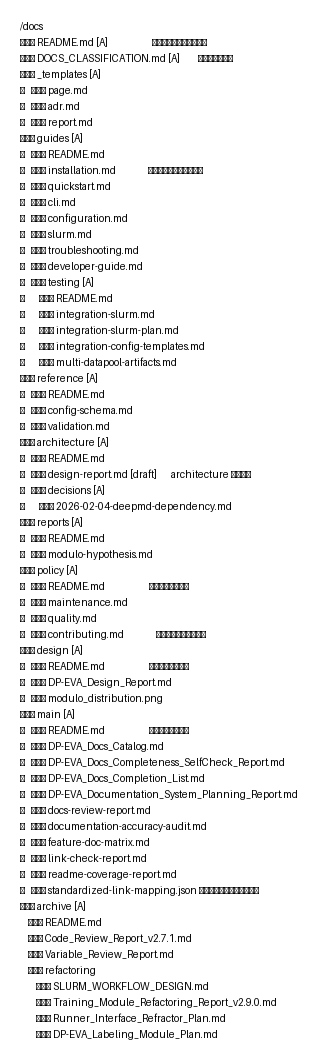
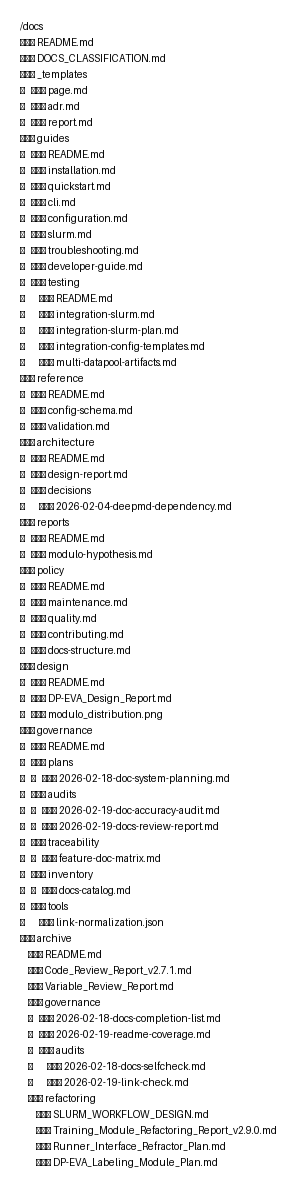
docs: 重构文档治理结构并归档历史报告
- 新增 `/docs/governance/` 目录，用于集中存放文档治理交付物，包括规划、审计、追踪矩阵和工具配置
- 将原 `/docs/main/` 下的治理类文档迁移至对应子目录，并更新 `/docs/README.md` 中的目录说明
- 将历史报告文件（如链接检测、文档补全清单、自检报告等）归档至 `/docs/archive/governance/` 目录
- 更新文档结构规范（`/docs/policy/docs-structure.md`）以反映新的治理目录布局
- 统一所有文档链接为根相对路径，确保可移植性和渲染一致性

Changed region(s): [[0.0606, 0.0, 0.9394, 0.9925], [0.4545, 0.1551, 0.6364, 0.1861]]

diff --git a/docs/governance/inventory/docs-catalog.md b/docs/governance/inventory/docs-catalog.md
@@ -27,7 +27,7 @@
 |---|---|---|---|---|---|---|
 | [config-schema.md](/docs/reference/config-schema.md) | Reference | Developers | Medium | active | config\|pydantic\|schema | Workflow 配置字段字典（通用字段、Train/Infer/Feature/Collect/Analysis），包括类型/默认值/说明/约束。 |
 | [validation.md](/docs/reference/validation.md) | Reference | Developers | Medium | active | validation\|constraints | Pydantic 参数校验逻辑补充：范围约束、跨字段依赖、env_setup 格式化、路径存在性校验。 |
-| [reference/README.md](/docs/reference/README.md) | Policy | Developers | Medium | active | reference\|single-source | Reference 分层说明与迁移建议入口（未来承接 api/ 的权威查表）。 |
+| [reference/README.md](/docs/reference/README.md) | Policy | Developers | Medium | active | reference\|single-source | Reference 分层说明与迁移建议入口。 |
 
 ## 3. Guides（用户/开发者操作指南）
 
@@ -41,40 +41,29 @@
 | [guides/slurm.md](/docs/guides/slurm.md) | Guide | Users/Infra | High | active | slurm\|monitoring | Slurm submission 配置、日志命名、完成标记监控与常见故障排查。 |
 | [guides/troubleshooting.md](/docs/guides/troubleshooting.md) | Guide | Users/Developers | High | active | troubleshooting\|faq | 结构化排查顺序与环境/数据/作业/数值四类常见问题处理建议。 |
 
-## 4. Main（主线交付与专题）
+## 4. Governance（文档治理）
 
 | Document | Category | Audience | Cadence | Status | Tags | 摘要（关键信息点） |
 |---|---|---|---|---|---|---|
-| [developer-guide.md](/docs/guides/developer-guide.md) | Guide | Developers | High | active | architecture\|workflow\|cli\|testing | 项目概览、目录结构、模块详解（Train/Infer/UQ/Sampling/Feature/Submission）、CLI 使用、测试与工作流监控标记规范。 |
-| [integration-slurm-plan.md](/docs/guides/testing/integration-slurm-plan.md) | Guide | Developers | Medium | active | integration-test\|slurm | 集成测试里程碑与 DoD：基于生产目录反推 I/O，构建 Slurm 链式编排与最小化数据集。 |
-| [integration-slurm.md](/docs/guides/testing/integration-slurm.md) | Guide | Developers | Medium | active | integration-test\|deliverable | 集成测试交付索引：指向 tests/integration 编排器、裁剪脚本、模板与完成标记机制。 |
-| [integration-config-templates.md](/docs/guides/testing/integration-config-templates.md) | Guide | Developers | Medium | active | configs\|slurm | 集成测试最小配置模板说明：Feature/Train/Infer/Collect/Analysis 的输入输出约定与模板索引。 |
-| [multi-datapool-artifacts.md](/docs/guides/testing/multi-datapool-artifacts.md) | Report | Developers | Low | active | i/o-analysis\|multi-pool | 生产目录 I/O 拆解与 Workflow 配置映射（多数据池候选/训练集/描述符/模型与采样结果）。 |
-| [DP-EVA_Documentation_System_Planning_Report.md](/docs/main/DP-EVA_Documentation_System_Planning_Report.md) | Plan | Maintainers | Medium | active | docs\|planning\|raci | 文档体系规划：分类体系、缺失补充、模板、维护与质量标准、实施排期与责任分配。 |
+| [doc-system-planning.md](/docs/governance/plans/2026-02-18-doc-system-planning.md) | Plan | Maintainers | Medium | active | docs\|planning\|raci | 文档体系规划：分类体系、缺失补充、模板、维护与质量标准、实施排期与责任分配。 |
+| [feature-doc-matrix.md](/docs/governance/traceability/feature-doc-matrix.md) | Policy | Maintainers | High | active | traceability\|release | 功能-文档双向追踪矩阵（发布前核对）。 |
+| [doc-accuracy-audit.md](/docs/governance/audits/2026-02-19-doc-accuracy-audit.md) | Report | Maintainers | Medium | active | audit\|accuracy | 文档准确性审计：对照代码与对外接口，形成差异与风险项。 |
+| [docs-review-report.md](/docs/governance/audits/2026-02-19-docs-review-report.md) | Report | Maintainers | Medium | active | audit\|quality | 文档质量审查结论与问题清单。 |
+| [link-normalization.json](/docs/governance/tools/link-normalization.json) | Asset | Maintainers | Medium | active | tooling\|links | 链接规范化机器可读规则（用于工具/CI）。 |
 
 ## 5. Design（技术设计与科研分析）
 
 | Document | Category | Audience | Cadence | Status | Tags | 摘要（关键信息点） |
 |---|---|---|---|---|---|---|
-| [DP-EVA_Design_Report.md](/docs/design/DP-EVA_Design_Report.md) | Architecture | Developers | Medium | active | patterns\|ddd\|refactor | 设计模式识别、耦合分析与解耦策略；包含“已实施重构”的历史说明，需要通过状态/适用版本进一步澄清。 |
-| [2026-02-04-deepmd-dependency.md](/docs/architecture/decisions/2026-02-04-deepmd-dependency.md) | Decision | Maintainers | Low | active | adr\|deepmd\|dependency | DeepMD-kit 依赖管理决策：拒绝 submodule，采用外部环境依赖 + 版本约束 + 运行时检查。 |
-| [modulo-hypothesis.md](/docs/reports/modulo-hypothesis.md) | Report | Researchers | Low | active | descriptor\|modulo\|evidence | 结构描述符模长的物理意义假设与实证分析，包含统计与对比表格。 |
+| [DP-EVA_Design_Report.md](/docs/design/DP-EVA_Design_Report.md) | Architecture | Developers | Medium | active | patterns\|ddd\|refactor | 设计模式识别、耦合分析与解耦策略。 |
+| [2026-02-04-deepmd-dependency.md](/docs/architecture/decisions/2026-02-04-deepmd-dependency.md) | Decision | Maintainers | Low | active | adr\|deepmd\|dependency | DeepMD-kit 依赖管理决策。 |
+| [modulo-hypothesis.md](/docs/reports/modulo-hypothesis.md) | Report | Researchers | Low | active | descriptor\|modulo\|evidence | 结构描述符模长的物理意义假设与实证分析。 |
 
 ## 6. Archive（历史与弃用）
 
 | Document | Category | Audience | Cadence | Status | Tags | 摘要（关键信息点） |
 |---|---|---|---|---|---|---|
 | [archive/README.md](/docs/archive/README.md) | Policy | All | Low | active | archive\|policy | 归档策略：适用版本、落地状态、修订说明约定。 |
-| [Code_Review_Report_v2.7.1.md](/docs/archive/Code_Review_Report_v2.7.1.md) | Archive | Developers | Low | archived | code-review | 历史代码审查报告（性能/并发/测试等），仅供参考。 |
-| [Variable_Review_Report.md](/docs/archive/Variable_Review_Report.md) | Archive | Developers | Low | archived | config\|variables | 历史变量/配置体系审查，记录过往不一致与修复建议。 |
-| [SLURM_WORKFLOW_DESIGN.md](/docs/archive/refactoring/SLURM_WORKFLOW_DESIGN.md) | Archive | Developers | Low | archived | slurm\|workflow-chaining | 历史 Slurm 链式编排设计文档（当时缺少监控/等待机制的方案）。 |
-| [Training_Module_Refactoring_Report_v2.9.0.md](/docs/archive/refactoring/Training_Module_Refactoring_Report_v2.9.0.md) | Archive | Developers | Low | active | refactoring\|training | 训练模块重构报告（版本化历史记录）。 |
-| [Runner_Interface_Refractor_Plan.md](/docs/archive/refactoring/Runner_Interface_Refractor_Plan.md) | Archive | Developers | Low | active | refactoring\|cli | Runner 接口重构计划（历史）。 |
-| [DP-EVA_Labeling_Module_Plan.md](/docs/archive/refactoring/DP-EVA_Labeling_Module_Plan.md) | Archive | Developers | Low | active | plan\|labeling | 标注模块规划（历史/待实现方向）。 |
+| [Code_Review_Report_v2.7.1.md](/docs/archive/Code_Review_Report_v2.7.1.md) | Archive | Developers | Low | archived | code-review | 历史代码审查报告（性能/并发/测试等）。 |
+| [Variable_Review_Report.md](/docs/archive/Variable_Review_Report.md) | Archive | Developers | Low | archived | config\|variables | 历史变量/配置体系审查。 |
 
-## 7. Assets（图像）
-
-| Asset | Category | Audience | Cadence | Status | Tags | 摘要（关键信息点） |
-|---|---|---|---|---|---|---|
-| [dpeva-workflow.png](/docs/img/dpeva-workflow.png) | Asset | All | Low | active | diagram\|workflow | DP-EVA 工作流示意图（用于架构与指南插图）。 |
-| [modulo_distribution.png](/docs/design/modulo_distribution.png) | Asset | Researchers | Low | active | plot\|descriptor | 模长分布图（配套科研报告）。 |

diff --git a/docs/policy/docs-structure.md b/docs/policy/docs-structure.md
@@ -1,14 +1,14 @@
-# 最终文档集结构设计方案
+# 文档结构与命名规范（Docs Structure & Naming）
 
 - Status: active
 - Audience: Maintainers / Developers
 - Last-Updated: 2026-02-19
 
-本文档给出当前版本的文档集最终结构（含保留/新增），并说明分类原则、命名规范、版本号规则与未来扩展预留目录。
+本文档定义当前版本的文档集结构与命名规范，并说明分类原则、状态规则与未来扩展预留目录。
 
 ## 1. 分类原则
 
-- 按 Intent（功能）分层：Guides / Reference / Architecture / Decisions(ADR) / Reports / Policy / Archive / Templates / Assets
+- 按 Intent（功能）分层：Guides / Reference / Architecture / Decisions(ADR) / Reports / Policy / Governance / Archive / Templates / Assets
 - 按 Cadence（更新频率）治理：
   - 高频：Guides（接口/目录结构变更必须同步）
   - 中频：Reference（字段/校验变更必须同步）
@@ -20,82 +20,86 @@
 
 - 目录名：全小写，短语用 `-` 连接（如 `guides/testing`）。
 - 主文档：语义清晰、稳定（如 `quickstart.md`、`config-schema.md`）。
-- 报告类：可使用语义名或日期前缀（如 `YYYY-MM-DD-*.md`）。
-- 禁止在仓库内保留旧入口跳转页；旧路径的兼容性应通过站点侧 301 或发布说明解决。
+- 审计/计划类报告：使用 `YYYY-MM-DD-<topic>.md`（例如 `2026-02-19-doc-accuracy-audit.md`）。
+- 禁止在仓库内保留旧入口跳转页；旧路径兼容性应通过站点侧 301 或发布说明解决。
 
-## 3. 版本号与状态规则
+## 3. 状态规则
 
 - 每篇 active 文档包含 `Status/Audience/Last-Updated` 元信息。
 - `Status` 使用：`active`（现行）、`draft`（草稿）、`archived`（历史/仅供参考）。
-- 旧路径兼容性应通过站点侧 301 或发布说明解决。
 
-## 4. 文档结构树（保留/新增）
+## 4. 文档结构树
 
-说明：
-
-- `[A]` = Active（现行权威/入口）
 - 树状图 PNG：/docs/img/docs-structure-tree.png
 
 ```text
 /docs
-├── README.md [A]                      文档总导航（单一入口）
-├── DOCS_CLASSIFICATION.md [A]         分类维度与规范
-├── _templates [A]
+├── README.md
+├── DOCS_CLASSIFICATION.md
+├── _templates
 │   ├── page.md
 │   ├── adr.md
 │   └── report.md
-├── guides [A]
+├── guides
 │   ├── README.md
-│   ├── installation.md                安装与环境准备（新增）
+│   ├── installation.md
 │   ├── quickstart.md
 │   ├── cli.md
 │   ├── configuration.md
 │   ├── slurm.md
 │   ├── troubleshooting.md
 │   ├── developer-guide.md
-│   └── testing [A]
+│   └── testing
 │       ├── README.md
 │       ├── integration-slurm.md
 │       ├── integration-slurm-plan.md
 │       ├── integration-config-templates.md
 │       └── multi-datapool-artifacts.md
-├── reference [A]
+├── reference
 │   ├── README.md
 │   ├── config-schema.md
 │   └── validation.md
-├── architecture [A]
+├── architecture
 │   ├── README.md
-│   ├── design-report.md [draft]       architecture 落点占位
-│   └── decisions [A]
+│   ├── design-report.md
+│   └── decisions
 │       └── 2026-02-04-deepmd-dependency.md
-├── reports [A]
+├── reports
 │   ├── README.md
 │   └── modulo-hypothesis.md
-├── policy [A]
-│   ├── README.md                      目录说明（新增）
+├── policy
+│   ├── README.md
 │   ├── maintenance.md
 │   ├── quality.md
-│   └── contributing.md                文档贡献指南（新增）
-├── design [A]
-│   ├── README.md                      目录说明（新增）
+│   ├── contributing.md
+│   └── docs-structure.md
+├── design
+│   ├── README.md
 │   ├── DP-EVA_Design_Report.md
 │   └── modulo_distribution.png
-├── main [A]
-│   ├── README.md                      目录说明（新增）
-│   ├── DP-EVA_Docs_Catalog.md
-│   ├── DP-EVA_Docs_Completeness_SelfCheck_Report.md
-│   ├── DP-EVA_Docs_Completion_List.md
-│   ├── DP-EVA_Documentation_System_Planning_Report.md
-│   ├── docs-review-report.md
-│   ├── documentation-accuracy-audit.md
-│   ├── feature-doc-matrix.md
-│   ├── link-check-report.md
-│   ├── readme-coverage-report.md
-│   └── standardized-link-mapping.json 标准化链接映射表（新增）
-└── archive [A]
+├── governance
+│   ├── README.md
+│   ├── plans
+│   │   └── 2026-02-18-doc-system-planning.md
+│   ├── audits
+│   │   ├── 2026-02-19-doc-accuracy-audit.md
+│   │   └── 2026-02-19-docs-review-report.md
+│   ├── traceability
+│   │   └── feature-doc-matrix.md
+│   ├── inventory
+│   │   └── docs-catalog.md
+│   └── tools
+│       └── link-normalization.json
+└── archive
     ├── README.md
     ├── Code_Review_Report_v2.7.1.md
     ├── Variable_Review_Report.md
+    ├── governance
+    │   ├── 2026-02-18-docs-completion-list.md
+    │   ├── 2026-02-19-readme-coverage.md
+    │   └── audits
+    │       ├── 2026-02-18-docs-selfcheck.md
+    │       └── 2026-02-19-link-check.md
     └── refactoring
         ├── SLURM_WORKFLOW_DESIGN.md
         ├── Training_Module_Refactoring_Report_v2.9.0.md
@@ -108,4 +112,4 @@
 - `/docs/glossary/`：术语表（DataPool/System/Descriptor 等）
 - `/docs/migrations/`：迁移指南（字段重命名、弃用策略、破坏性变更）
 - `/docs/changelog/`：release notes 与兼容性说明
-- `/docs/tools/`：文档检查脚本（链接检查、示例抽取与验证）
+

diff --git a/docs/governance/audits/2026-02-19-docs-review-report.md b/docs/governance/audits/2026-02-19-docs-review-report.md
@@ -8,7 +8,7 @@
 
 - 文档组织结构：已形成明确分层（Guides/Reference/Architecture/Policy/Reports/Archive），并通过 `/docs/README.md` 统一入口完成读者分流。
 - 链接与可移植性：项目内 Markdown 链接已统一为根相对路径（以 `/` 开头），且断链为 0。
-- 旧入口治理：已删除所有 deprecated 的旧入口文档，避免多入口导致内容分叉。
+- 多入口治理：已删除旧入口文档，避免多入口导致内容分叉。
 
 ## 2. 问题清单（按严重程度）
 
@@ -18,7 +18,7 @@
 
 ### P1（高优先级，需进入 Issue 队列）
 
-- 导入时警告：Pydantic `model_path/model_head` 与 protected namespace 冲突（建议创建 Issue 并处理，避免未来升级风险）。详见 `/docs/main/documentation-accuracy-audit.md`。
+- 导入时警告：Pydantic `model_path/model_head` 与 protected namespace 冲突（建议创建 Issue 并处理，避免未来升级风险）。详见 `/docs/governance/audits/2026-02-19-doc-accuracy-audit.md`。
 
 ### P2（中优先级，持续治理）
 
@@ -32,9 +32,10 @@
 
 ## 4. 相关交付物索引
 
-- 链接检测报告：`/docs/main/link-check-report.md`
-- 标准化链接映射表（JSON）：`/docs/main/standardized-link-mapping.json`
-- 最终文档集结构设计方案（含树状图 PNG）：`/docs/main/docs-structure-design.md`
-- 功能-文档双向追踪矩阵：`/docs/main/feature-doc-matrix.md`
-- 文档准确性审计报告：`/docs/main/documentation-accuracy-audit.md`
-- README 缺失与补齐清单：`/docs/main/readme-coverage-report.md`
+- 链接检测报告：`/docs/archive/governance/audits/2026-02-19-link-check.md`
+- 标准化链接映射表（JSON）：`/docs/governance/tools/link-normalization.json`
+- 最终文档集结构设计方案：`/docs/policy/docs-structure.md`
+- 功能-文档双向追踪矩阵：`/docs/governance/traceability/feature-doc-matrix.md`
+- 文档准确性审计报告：`/docs/governance/audits/2026-02-19-doc-accuracy-audit.md`
+- README 缺失与补齐清单：`/docs/archive/governance/2026-02-19-readme-coverage.md`
+

diff --git a/docs/archive/governance/audits/2026-02-18-docs-selfcheck.md b/docs/archive/governance/audits/2026-02-18-docs-selfcheck.md
@@ -1,7 +1,8 @@
 # 文档完整性自检报告（Self-Check）
 
-- Date: 2026-02-18
-- Scope: `docs/` 全量 Markdown
+- Status: archived
+- Audience: Maintainers
+- Last-Updated: 2026-02-18
 
 本报告记录对“文档格式、占位符、交叉引用”的自动化自检结果，并给出后续治理建议。
 
@@ -35,7 +36,7 @@
 建议：
 
 - 对 `docs/guides/*`、`docs/reference/*`、`docs/policy/*` 的所有 `active` 文档强制补齐元信息。
-- `docs/archive/*` 允许缺失元信息，但建议至少标注 `Status: archived/deprecated` 与适用版本。
+- `docs/archive/*` 允许缺失元信息，但建议至少标注 `Status: archived` 与适用版本。
 
 ### 2.2 设计类文档的“现状一致性”治理
 
@@ -54,3 +55,4 @@
 - 跳过 `http(s)`、`mailto`、`#anchor`
 - 对相对路径按文档所在目录解析并验证存在性
 - 禁止项目内使用文件系统绝对路径链接（例如 `file://...` 与 `/abs/path`）
+

diff --git a/docs/archive/governance/audits/2026-02-19-link-check.md b/docs/archive/governance/audits/2026-02-19-link-check.md
@@ -1,6 +1,6 @@
 # 链接检测报告（Docs Link Check）
 
-- Status: active
+- Status: archived
 - Audience: Maintainers / Developers
 - Last-Updated: 2026-02-19
 
@@ -9,7 +9,7 @@
 - 范围：`/docs/**/*.md`
 - 允许的链接类型：
   - 项目内：以 `/` 开头的根相对路径（例如 `/docs/README.md`、`/src/dpeva/cli.py`）
-  - 外部链接：`http(s)://...`（当前文档集未使用）
+  - 外部链接：`http(s)://...`
   - 页面内锚点：`#...`
 - 禁止的链接类型：
   - 文件系统绝对路径（例如 `file://...`、`/abs/path`）
@@ -28,4 +28,5 @@
 
 - 统一将项目内 Markdown 链接标准化为根相对路径（以 `/` 开头）
 - 清理并替换历史 `file:///...` 绝对路径链接
-- 兼容旧入口统一采用“主文档唯一 URL + 跳转页（Deprecated）”策略
+- 删除旧入口文档，避免多入口导致内容分叉
+

diff --git a/docs/governance/README.md b/docs/governance/README.md
@@ -1,0 +1,26 @@
+# Governance（文档治理）
+
+- Status: active
+- Audience: Maintainers / Developers
+- Last-Updated: 2026-02-19
+
+本目录用于存放文档体系的治理交付物：规划、审计、追踪矩阵、库存清单与相关工具配置。
+
+## 1. 子目录速览
+
+| 目录 | 用途 |
+|---|---|
+| `/docs/governance/plans/` | 路线图与可执行规划（带日期版本）。 |
+| `/docs/governance/audits/` | 审计/评审报告（带日期版本）。 |
+| `/docs/governance/traceability/` | 功能-文档等双向追踪矩阵（活文档）。 |
+| `/docs/governance/inventory/` | 文档库存/清单（建议自动生成或定期复核）。 |
+| `/docs/governance/tools/` | 文档检查与链接规范化相关配置（机器可读）。 |
+
+## 2. 快速开始
+
+- 文档总导航入口：/docs/README.md
+
+## 3. 贡献指南
+
+- /CONTRIBUTING.md
+

diff --git a/docs/README.md b/docs/README.md
@@ -30,6 +30,7 @@
 - `docs/reference/`：权威“查表类”参考（字段列表、校验规则）。只在这里维护全量字段说明。
 - `docs/guides/`：主线操作指南（Quickstart/CLI/配置/Slurm/测试专题等）。遇到字段解释只链接到 `docs/reference/`。
 - `docs/architecture/`：架构与关键技术决策（ADR）。
+- `docs/governance/`：文档治理交付物（规划、审计、追踪矩阵、工具配置）。
 - `docs/reports/`：一次性分析/实验/评审结论（默认只追加）。
 - `docs/archive/`：历史与弃用文档（只读）。必须在文件头显式标注适用版本与是否已落地。
 

diff --git a/docs/archive/governance/2026-02-19-readme-coverage.md b/docs/archive/governance/2026-02-19-readme-coverage.md
@@ -1,6 +1,6 @@
 # README 缺失与补齐清单
 
-- Status: active
+- Status: archived
 - Audience: Maintainers
 - Last-Updated: 2026-02-19
 
@@ -8,6 +8,6 @@
 
 | 目录 | 是否补齐 | README 标题 | 作者 | 合并 PR 号 |
 |---|---|---|---|---|
-| `/docs/main` | 是 | Main（规划、清单与审查交付物） | Quantum Misaka (Trae) | N/A |
+| `/docs/governance` | 是 | Governance（文档治理） | Quantum Misaka (Trae) | N/A |
 | `/docs/policy` | 是 | Policy（制度与规范） | Quantum Misaka (Trae) | N/A |
 | `/docs/design` | 是 | Design（设计分析与图片资产） | Quantum Misaka (Trae) | N/A |

diff --git a/docs/archive/governance/2026-02-18-docs-completion-list.md b/docs/archive/governance/2026-02-18-docs-completion-list.md
@@ -1,7 +1,8 @@
 # 文档补全清单（Completion List）
 
-- Date: 2026-02-18
-- Scope: `docs/` 全量文档（含跳转入口）
+- Status: archived
+- Audience: Maintainers
+- Last-Updated: 2026-02-18
 
 本清单记录本轮对“未补全文档”的补全与重构结果，便于验收与后续持续改进。
 
@@ -30,4 +31,5 @@
 
 ## 3. 旧入口清理
 
-本轮已删除所有 deprecated 的旧路径入口文档，避免多入口导致内容分叉。
+本轮已删除旧入口文档，避免多入口导致内容分叉。
+

diff --git a/docs/governance/plans/2026-02-18-doc-system-planning.md b/docs/governance/plans/2026-02-18-doc-system-planning.md
@@ -176,3 +176,4 @@
 - 执行支持（I）：全体贡献者（按 PR 通知）
 
 推荐的落地动作：为每个 `active` 文档在头部填写 `Owners`，并在 PR 模板中增加“文档是否需要更新”的检查项。
+

diff --git a/docs/governance/audits/2026-02-19-doc-accuracy-audit.md b/docs/governance/audits/2026-02-19-doc-accuracy-audit.md
@@ -53,4 +53,5 @@
 
 ## 6. 追踪矩阵
 
-- 功能-文档矩阵：/docs/main/feature-doc-matrix.md
+- 功能-文档矩阵：/docs/governance/traceability/feature-doc-matrix.md
+
